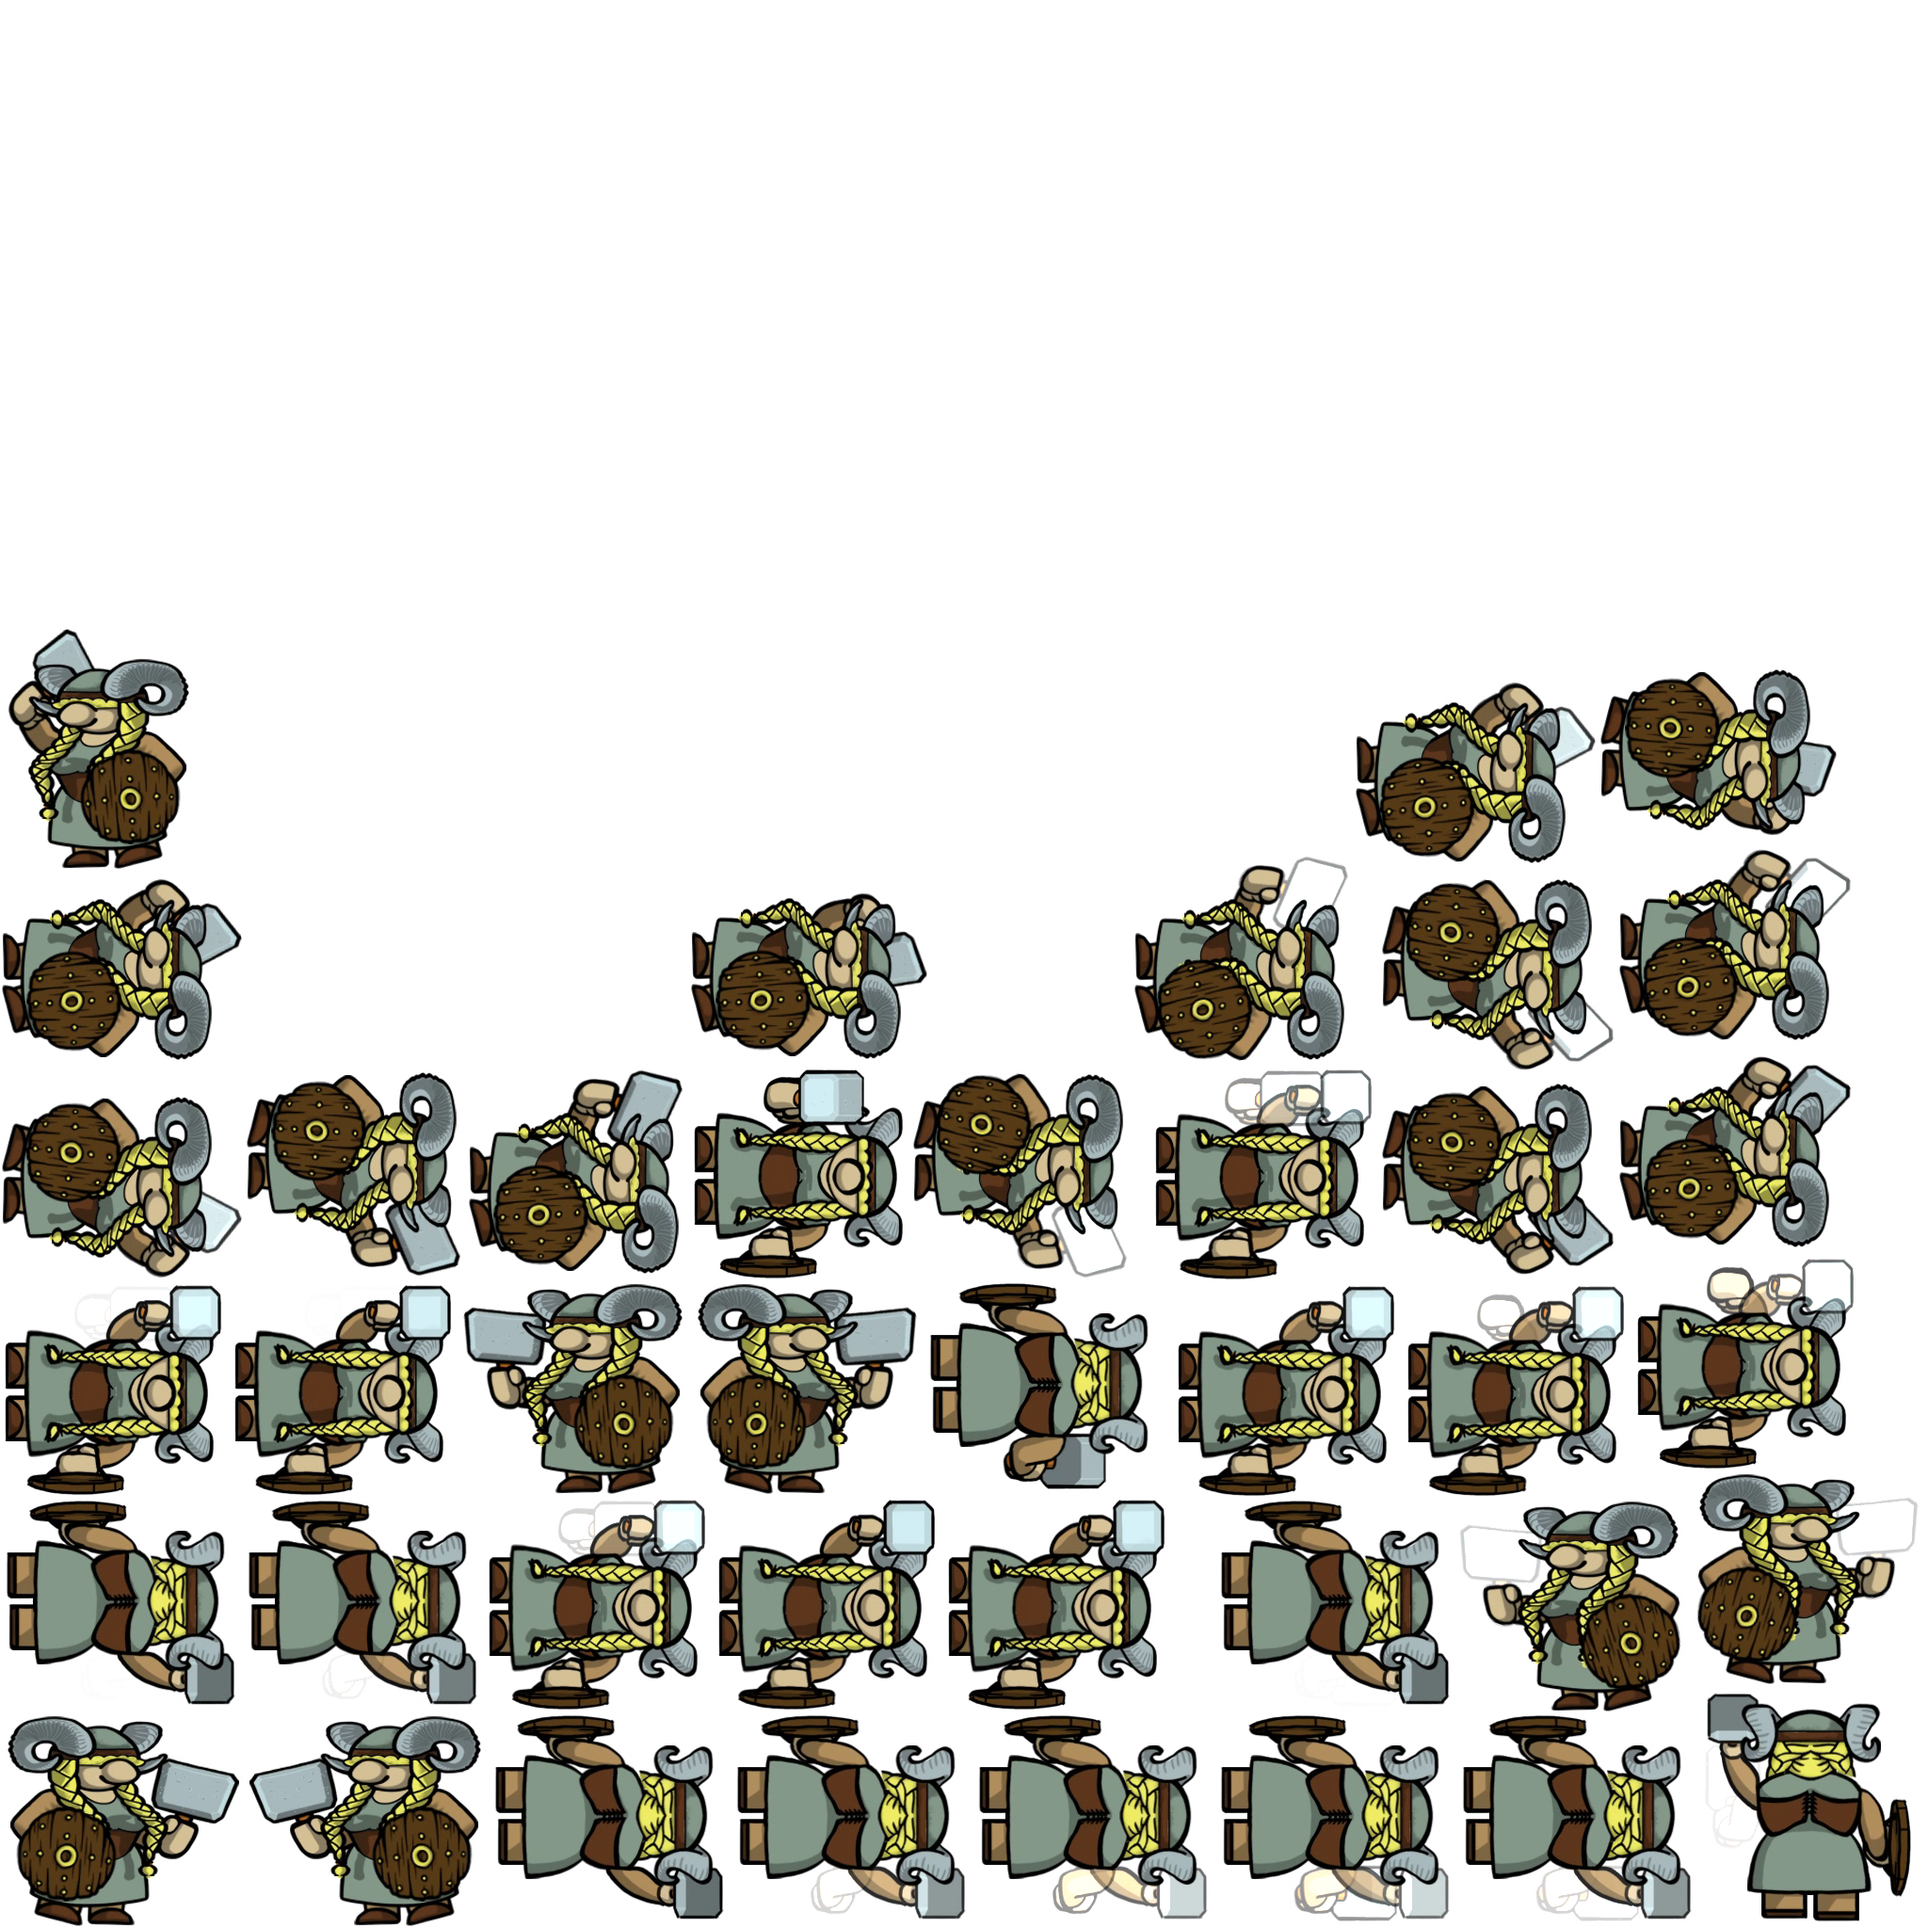
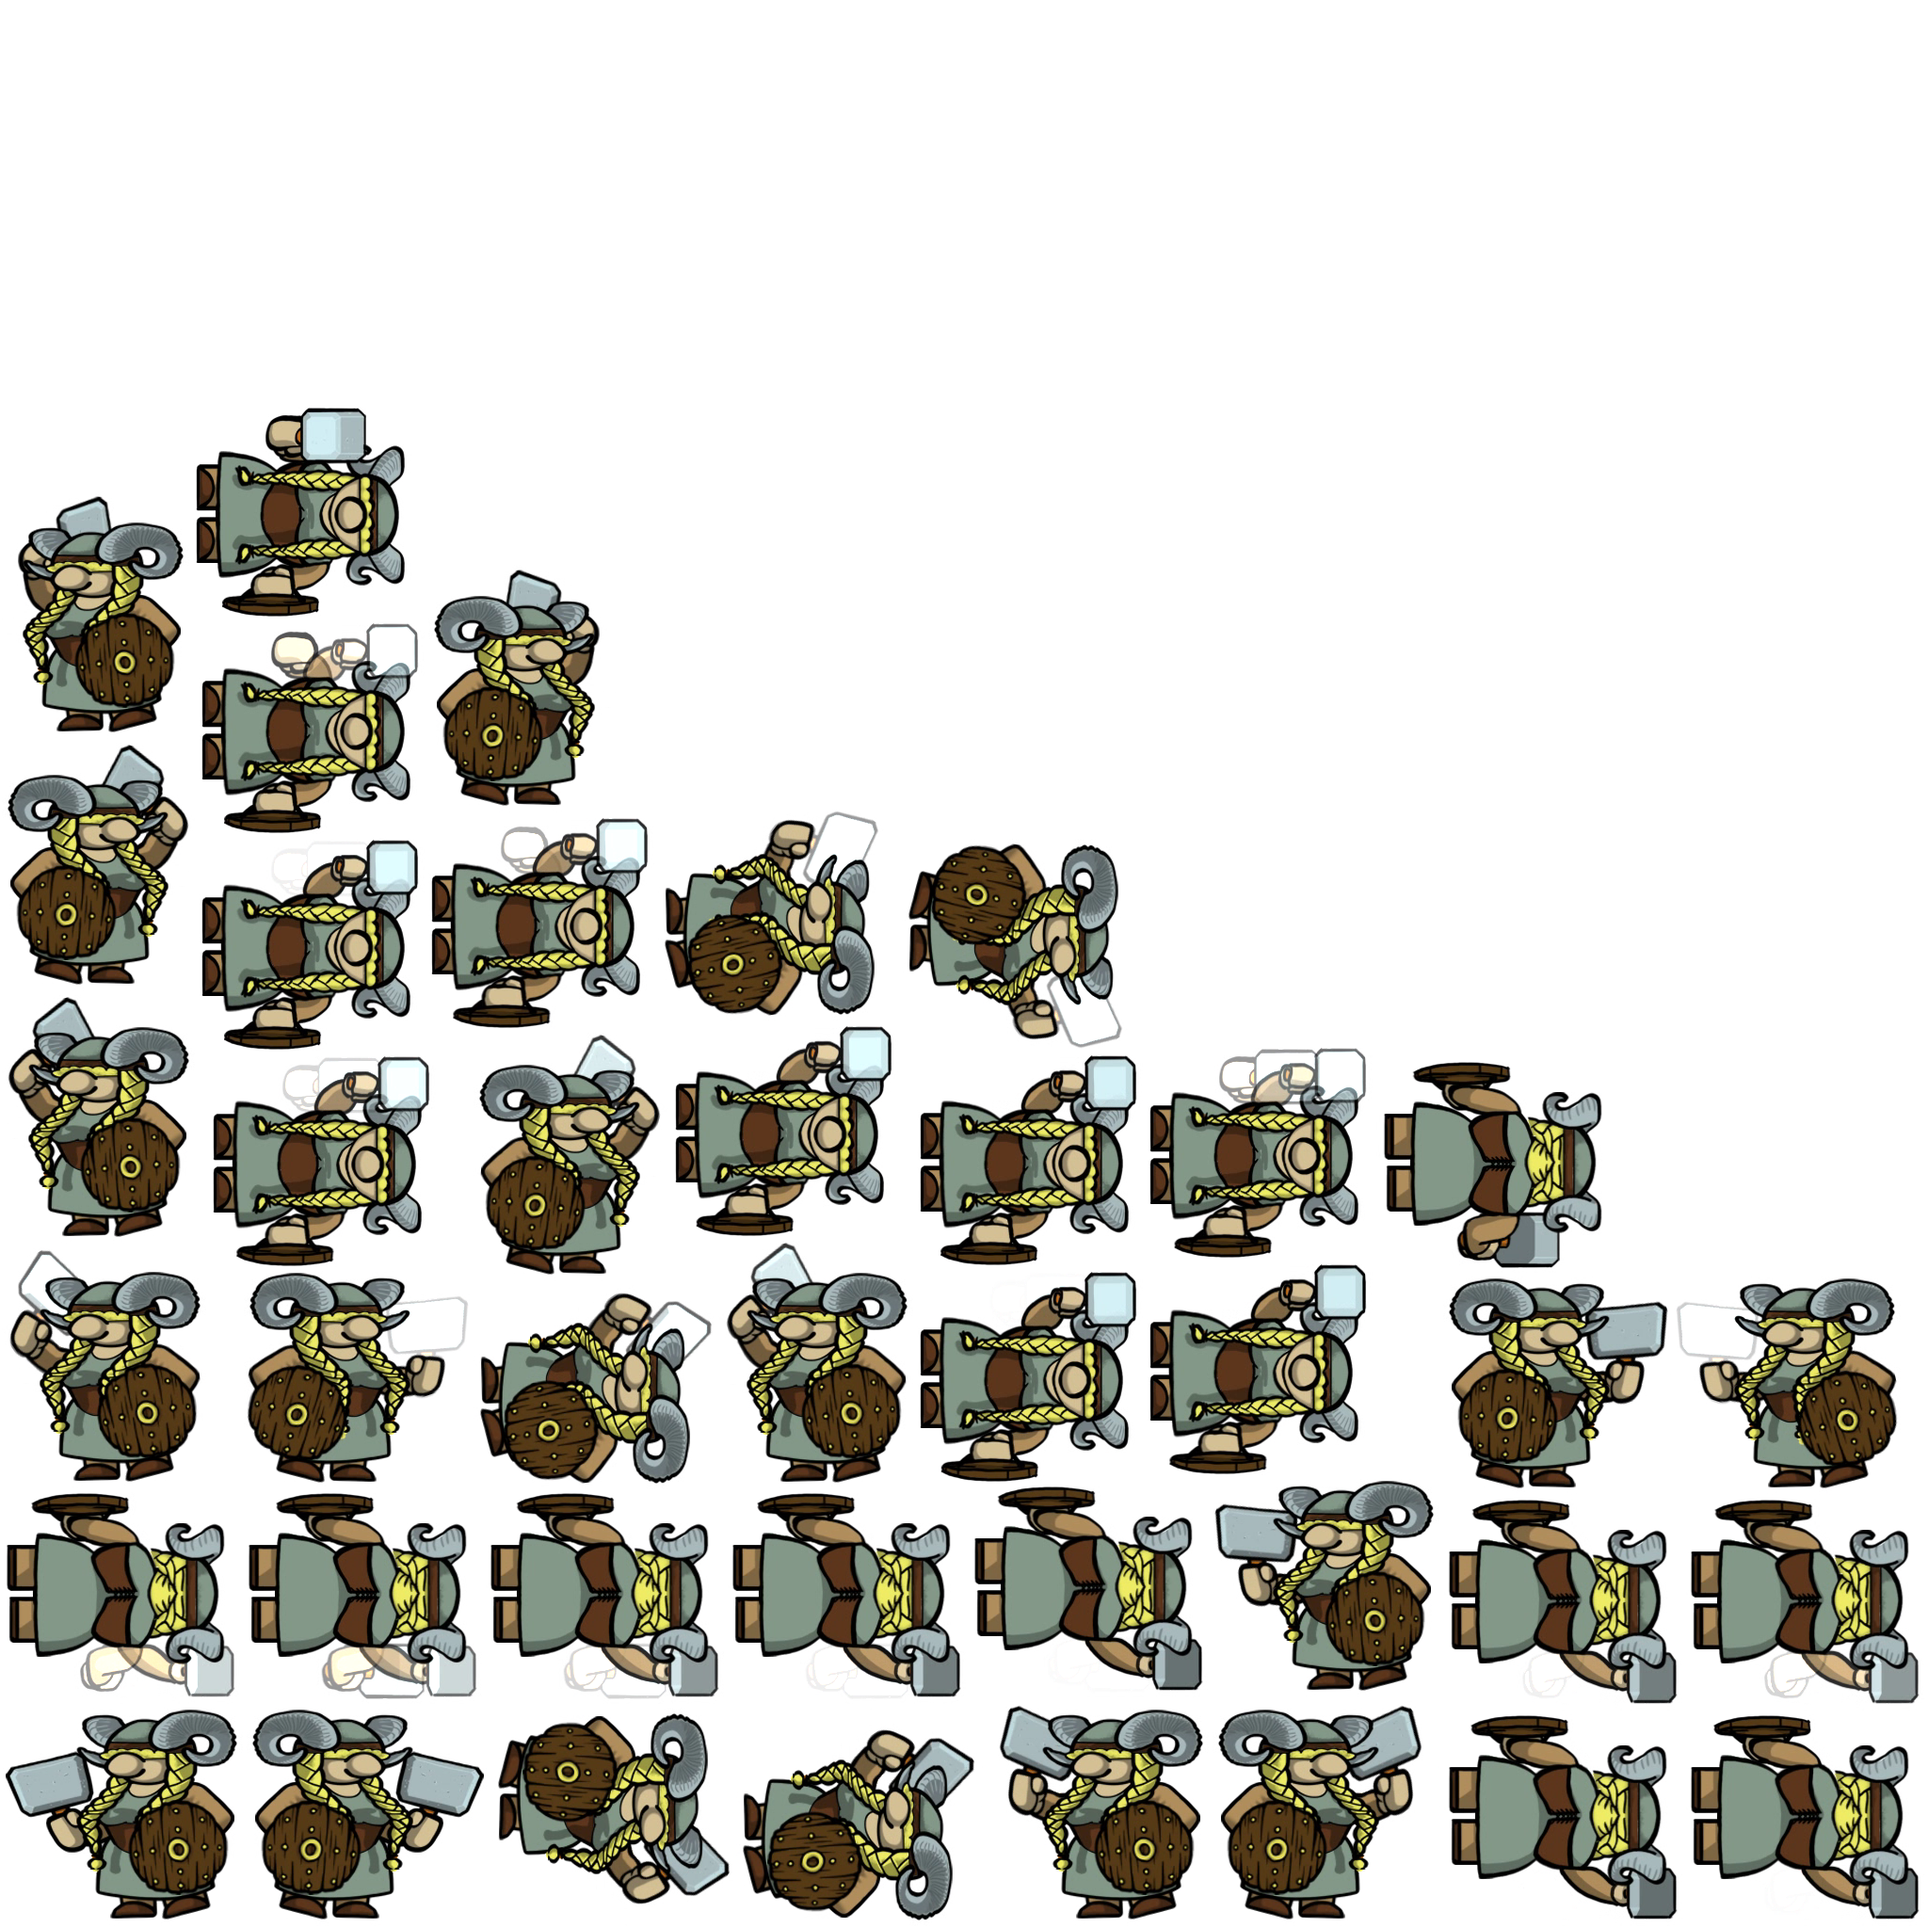
Throw animations fixed.

diff --git a/Assets/Scripts/HammerThrow.cs b/Assets/Scripts/HammerThrow.cs
@@ -4,6 +4,7 @@ using System.Collections;
 public class HammerThrow : MonoBehaviour {
 
 	public float speed;
+	public int direction;
 	public float throwDistance;
 	public GameObject hitboxPrefab;
 	public GameObject parentOb;
@@ -35,6 +36,15 @@ public class HammerThrow : MonoBehaviour {
 		
 
 		sprite = GetComponentInChildren<tk2dSprite>();
+		
+		if(direction == (int)(DIRECTIONS.NORTH))
+			GetComponentInChildren<tk2dSpriteAnimator>().Play("UpHammer");
+		if(direction == (int)(DIRECTIONS.WEST))
+			GetComponentInChildren<tk2dSpriteAnimator>().Play("LeftHammer");
+		if(direction == (int)(DIRECTIONS.SOUTH))
+			GetComponentInChildren<tk2dSpriteAnimator>().Play("DownHammer");
+		if(direction == (int)(DIRECTIONS.EAST))
+			GetComponentInChildren<tk2dSpriteAnimator>().Play("RightHammer");
 	}
 	
 	// Update is called once per frame

diff --git a/Assets/Scripts/PlayerScript.cs b/Assets/Scripts/PlayerScript.cs
@@ -44,6 +44,7 @@ public class PlayerScript : CharacterScript {
 		HammerThrow hammer = spawnedHammer.GetComponent<HammerThrow>();
 		
 		hammer.parentOb = handPosition;
+		hammer.direction = direction;
 		hammer.throwDirection = getMoveVector().normalized;
 		hammer.smashing = powers > 1;
 		
